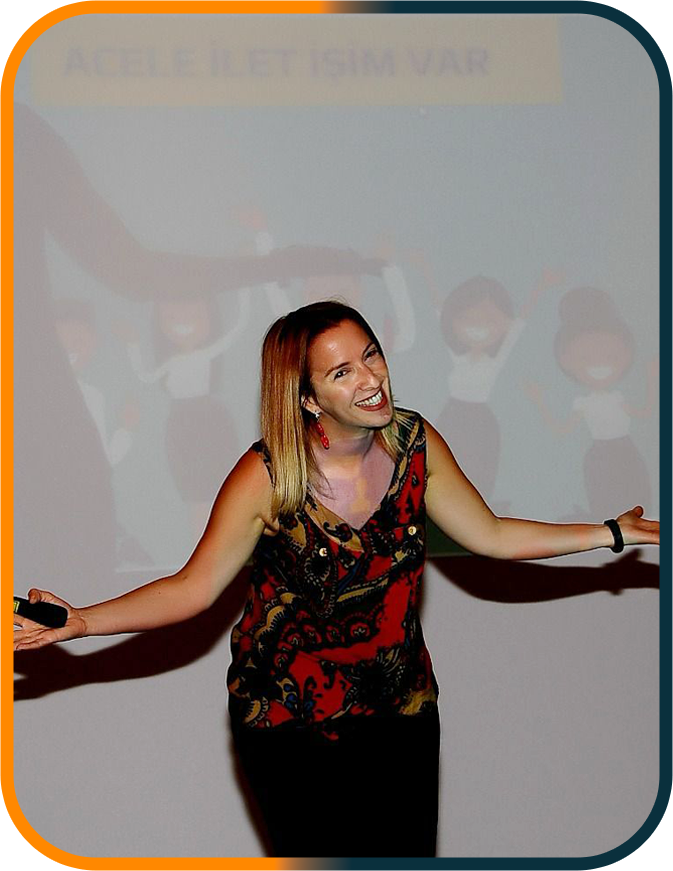
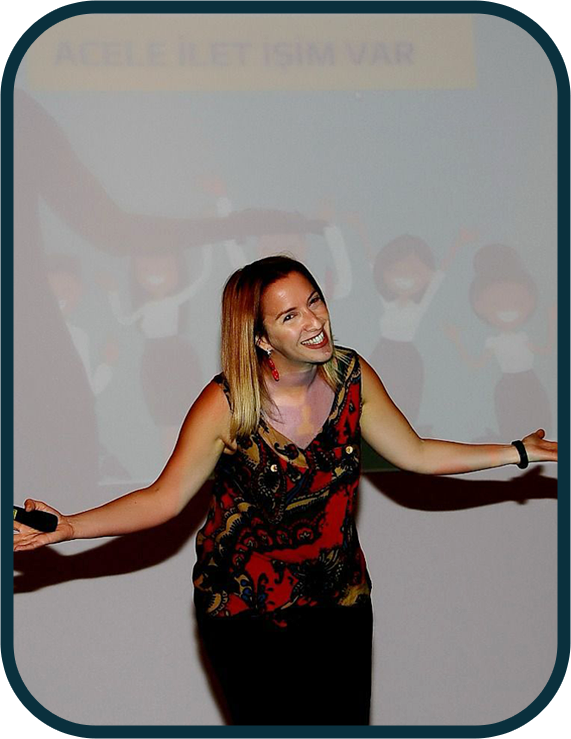
Fix Next Image quality config

diff --git a/src/app/components/Home/IndividualTrainings/index.tsx b/src/app/components/Home/IndividualTrainings/index.tsx
@@ -14,11 +14,11 @@ const IndividualTrainings = () => {
             <div className="flex items-start gap-4">
               <div className="w-12 h-12 rounded-full bg-primary flex items-center justify-center text-white font-bold">1</div>
               <div>
-                <h3 className="text-2xl font-semibold text-black">Eğitmen Yetiştirme Programı</h3>
-                <p className="text-black/70 dark:text-black/70 mt-2">Ya eğitmensiniz ve sunum becerilerinizi güçlendirmek, sahne heyecanıyla başa çıkmak, katılımcıyı daha fazla etkilemek, kendi alanınızda ses getirmek istiyorsunuz… ya da bu alanda kariyer hedefiniz var.</p>
+                <h3 className="text-2xl font-semibold text-black dark:text-white">Eğitmen Yetiştirme Programı</h3>
+                <p className="text-black/70 dark:text-white/70 mt-2">Ya eğitmensiniz ve sunum becerilerinizi güçlendirmek, sahne heyecanıyla başa çıkmak, katılımcıyı daha fazla etkilemek, kendi alanınızda ses getirmek istiyorsunuz… ya da bu alanda kariyer hedefiniz var.</p>
               </div>
             </div>
-            <ul className="mt-4 list-disc list-inside text-black/70 dark:text-black/70 space-y-2">
+            <ul className="mt-4 list-disc list-inside text-black/70 dark:text-white/70 space-y-2">
               <li>Eğitim ihtiyaçlarını tespit etme</li>
               <li>İçerik yazımı ve yapılandırma</li>
               <li>Etkin sunum teknikleri ve uygulama</li>
@@ -31,7 +31,7 @@ const IndividualTrainings = () => {
             <div className="flex items-start gap-4">
               <div className="w-12 h-12 rounded-full bg-primary flex items-center justify-center text-white font-bold">2</div>
               <div>
-                <h3 className="text-2xl font-semibold text-black">İşe Alım Uzmanlığı / Seçme – Yerleştirme Programı</h3>
+                <h3 className="text-2xl font-semibold text-black dark:text-white">İşe Alım Uzmanlığı / Seçme – Yerleştirme Programı</h3>
                 <p className="text-black/70 dark:text-white/70 mt-2">Bir kuruma bir kişiyi yerleştirmek sadece bir pozisyonu doldurmak değildir; tüm sisteme etki eden bir dokunuş yapmaktır.</p>
               </div>
             </div>
@@ -48,7 +48,7 @@ const IndividualTrainings = () => {
             <div className="flex items-start gap-4">
               <div className="w-12 h-12 rounded-full bg-primary flex items-center justify-center text-white font-bold">3</div>
               <div>
-                <h3 className="text-2xl font-semibold text-black">Yönetim Becerileri Programı (Bireysel)</h3>
+                <h3 className="text-2xl font-semibold text-black dark:text-white">Yönetim Becerileri Programı (Bireysel)</h3>
                 <p className="text-black/70 dark:text-white/70 mt-2">Sözü geçen, belli bir güç alanına sahip, kendisi de ekibi de ezilmeyen, kriz anında çözülmeyen, az bilgiyle bile doğru karar verebilen daha güçlü bir yönetici olmaya mı ihtiyacınız var?</p>
               </div>
             </div>

diff --git a/src/app/components/Home/hizmetlerimiz/index.tsx b/src/app/components/Home/hizmetlerimiz/index.tsx
@@ -44,7 +44,7 @@ const Services = () => {
               Profesyonel Danışmanlık <br /> & Eğitim Hizmetleri
             </h2>
             <Link
-              href="/hizmetler"
+              href="/hizmetlerimiz"
               className="py-1.125 px-2.188 bg-primary rounded-lg hover:bg-orange-600 duration-300 text-white font-semibold"
             >
               Hizmetler

diff --git a/src/app/components/Home/Hero/index.tsx b/src/app/components/Home/Hero/index.tsx
@@ -53,7 +53,7 @@ const Hero: React.FC = () => {
                 src="/images/hero/fulya.png"
                 alt="hero Image"
                 width={400}
-                height={300}
+                height={200}
                 // className="w-full h-full"
               />
             </motion.div>
